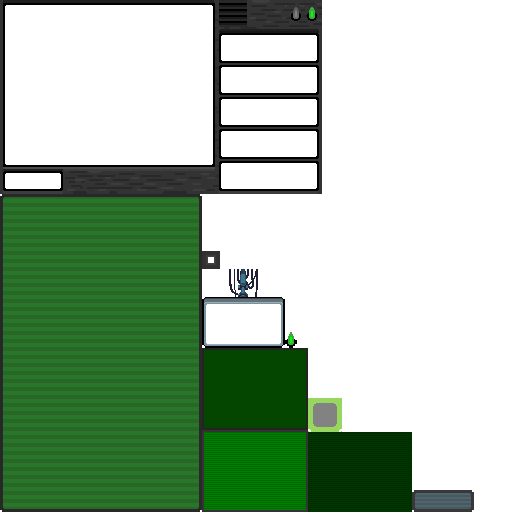
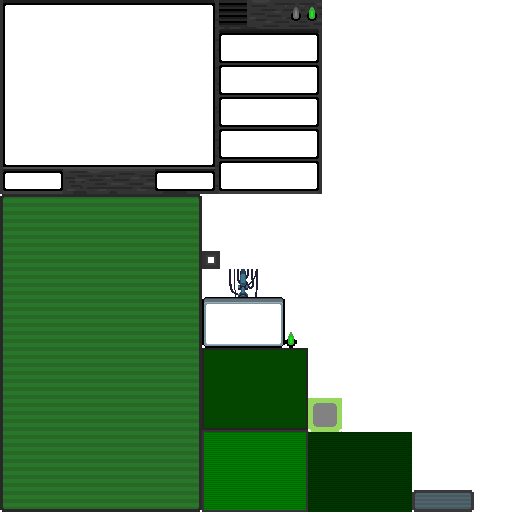
Player stats panel finished + animation tweaks

Changed region(s): [[0.2812, 0.3125, 0.4375, 0.375]]

diff --git a/core/src/com/deo/flapd/view/overlays/PlayerStatsPanel.java b/core/src/com/deo/flapd/view/overlays/PlayerStatsPanel.java
@@ -31,8 +31,8 @@ public class PlayerStatsPanel extends Group {
     
     private final Table statsContainer;
     
-    private float animationPosition = 0;
-    private float animationDirection = -1;
+    private float animationPosition = 1;
+    private float animationDirection = 1;
     
     public PlayerStatsPanel(CompositeManager compositeManager, Stage stage) {
         treeJson = new JsonEntry(new JsonReader().parse(Gdx.files.internal("shop/tree.json")));
@@ -45,15 +45,15 @@ public class PlayerStatsPanel extends Group {
         rebuild();
         
         statsContainer.setBackground(new TextureRegionDrawable(assetManager.get("ui/menuUi.atlas", TextureAtlas.class).findRegion("stats")));
-        statsContainer.setBounds(545, 5, 250, 395);
+        statsContainer.setSize(250, 395);
         statsContainer.align(Align.top);
-    
+        
         Image touchBlock = new Image();
-        touchBlock.setBounds(545, 5, 250, 395);
+        touchBlock.setSize(250, 395);
         
         addActor(touchBlock);
         addActor(statsContainer);
-        setVisible(false);
+        setPosition(800, 5);
         stage.addActor(this);
     }
     
@@ -63,7 +63,7 @@ public class PlayerStatsPanel extends Group {
         if (title) {
             titleTable.setBackground(constructFilledImageWithColor(1, 1, Color.valueOf("#262626")));
         }
-        Label categoryLabel = uiComposer.addText(text, assetManager.get("fonts/pixel.ttf"), title? 0.48f : 0.42f);
+        Label categoryLabel = uiComposer.addText(text, assetManager.get("fonts/pixel.ttf"), title ? 0.48f : 0.42f);
         categoryLabel.getStyle().fontColor = Color.valueOf(color);
         categoryLabel.setFillParent(true);
         categoryLabel.setAlignment(title ? Align.center : Align.left);
@@ -71,12 +71,12 @@ public class PlayerStatsPanel extends Group {
         statsContainer.add(titleTable).width(246).row();
     }
     
-    public void toggle(){
+    public void toggle() {
         animationDirection *= -1;
     }
     
-    public void rebuild(){
-    
+    public void rebuild() {
+        
         statsContainer.clear();
         
         JsonEntry weaponConfig = treeJson.get(getString(Keys.currentWeapon), "parameters");
@@ -86,7 +86,7 @@ public class PlayerStatsPanel extends Group {
         JsonEntry hullConfig = treeJson.get(getString(Keys.currentHull), "parameters");
         JsonEntry batteryConfig = treeJson.get(getString(Keys.currentBattery), "parameters");
         JsonEntry shieldConfig = treeJson.get(getString(Keys.currentShield), "parameters");
-    
+        
         float weight =
                 weaponConfig.getFloat(false, 1, "parameter.weight") +
                         coreConfig.getFloat(false, 1, "parameter.weight") +
@@ -95,34 +95,34 @@ public class PlayerStatsPanel extends Group {
                         hullConfig.getFloat(false, 1, "parameter.weight") +
                         batteryConfig.getFloat(false, 1, "parameter.weight") +
                         shieldConfig.getFloat(false, 1, "parameter.weight");
-    
+        
         float accelerationForce = engineConfig.getFloat(false, 1, "parameter.acceleration_force");
         float acceleration = accelerationForce / weight;
-    
+        
         float topSpeed = engineConfig.getFloat(false, 1, "parameter.speed")
                 * coreConfig.getFloat(false, 1, "parameter.speed_multiplier");
-    
+        
         float damage = weaponConfig.getFloat(false, 1, "parameter.damage")
                 * coreConfig.getFloat(false, 1, "parameter.damage_multiplier");
-    
+        
         float health = hullConfig.getFloat(false, 1, "parameter.health")
                 * coreConfig.getFloat(false, 1, "parameter.health_multiplier");
-    
+        
         float shield_health = shieldConfig.getFloat(false, 1, "parameter.shield_capacity")
                 * coreConfig.getFloat(false, 1, "parameter.shield_strength_multiplier");
-    
+        
         float shield_regeneration = shieldConfig.getFloat(false, 1, "parameter.regeneration_speed");
-    
+        
         float capacity = batteryConfig.getFloat(false, 1, "parameter.capacity")
                 * coreConfig.getFloat(false, 1, "parameter.charge_capacity_multiplier");
-    
+        
         float powerGeneration = coreConfig.getFloat(false, 1, "parameter.power_generation");
-    
+        
         float powerConsumption =
                 weaponConfig.getFloat(false, 0, "parameter.power_consumption") +
                         (moduleConfig == null ? 0 : moduleConfig.getFloat(false, 1, "parameter.power_consumption")) +
                         shieldConfig.getFloat(false, 1, "parameter.power_consumption");
-    
+        
         addText(localeManager.get("menu.player_stats"), true, "#ffb121");
         addText(localeManager.get("stats.total_damage") + ": " + damage, false, "#ff5141");
         addText(localeManager.get("stats.total_health") + ": " + health, false, "#ff5141");
@@ -138,13 +138,8 @@ public class PlayerStatsPanel extends Group {
     
     @Override
     public void act(float delta) {
-        animationPosition = clamp(animationPosition + delta * animationDirection * 3, 0, 1);
-        setColor(1, 1, 1, animationPosition);
-        if(animationPosition == 0 && isVisible()){
-            setVisible(false);
-        }else if(animationPosition > 0 && !isVisible()){
-            setVisible(true);
-        }
+        animationPosition = clamp(animationPosition + delta * animationDirection * 2, 0, 1);
+        setPosition(545 + animationPosition * animationPosition * 255, 5);
     }
     
 }

diff --git a/core/src/com/deo/flapd/view/screens/MenuScreen.java b/core/src/com/deo/flapd/view/screens/MenuScreen.java
@@ -112,7 +112,7 @@ public class MenuScreen implements Screen {
     private JsonEntry shipConfig;
     public float shipUpgradeAnimationPosition = 1;
     private byte shipUpgradeAnimationDirection = -1;
-    private PlayerStatsPanel playerStatsPanel;
+    private final PlayerStatsPanel playerStatsPanel;
     
     private final Texture fillTexture;
     private final Image lamp;
@@ -213,10 +213,20 @@ public class MenuScreen implements Screen {
         
         Image buildNumber = new Image(menuUiAtlas.findRegion("greyishButton"));
         buildNumber.setBounds(5, 5, 150, 50);
+    
+        UIComposer uiComposer = compositeManager.getUiComposer();
+        
+        TextButton openStats = uiComposer.addTextButton("defaultLight", localeManager.get("stats.open"), 0.27f);
+        openStats.getLabel().setWrap(true);
+        openStats.setBounds(385, 5, 150, 50);
+        openStats.addListener(new ClickListener(){
+            @Override
+            public void clicked(InputEvent event, float x, float y) {
+                playerStatsPanel.toggle();
+            }
+        });
         
         long uiGenTime = millis();
-        
-        UIComposer uiComposer = compositeManager.getUiComposer();
         
         Table playScreenTable = new Table();
         playScreenTable.align(Align.topLeft);
@@ -435,6 +445,7 @@ public class MenuScreen implements Screen {
         menuStage.addActor(menuBg);
         menuStage.addActor(ship_touchLayer);
         menuStage.addActor(buildNumber);
+        menuStage.addActor(openStats);
         
         menuCategoryManager.attach(menuStage);
     
@@ -590,6 +601,7 @@ public class MenuScreen implements Screen {
         float prevAnimPos = shipUpgradeAnimationPosition;
         shipUpgradeAnimationPosition = clamp(shipUpgradeAnimationPosition + delta * shipUpgradeAnimationDirection * 1.5f, 1, targetShipScaleFactor + 1);
         float shipUpgradeAnimationPosition_normalized = (shipUpgradeAnimationPosition - 1) / targetShipScaleFactor;
+        shipUpgradeAnimationPosition_normalized *= shipUpgradeAnimationPosition_normalized;
         boolean upgradeAnimationActive = !(prevAnimPos - shipUpgradeAnimationPosition == 0);
         
         if (warpAnimationActive) {
